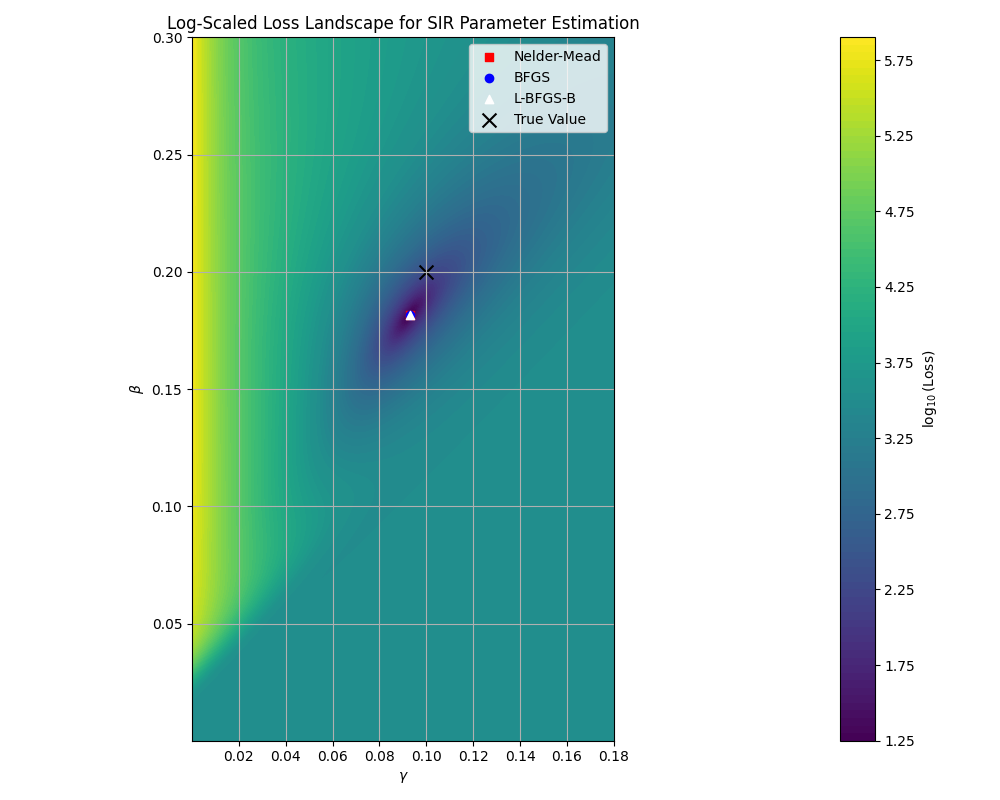
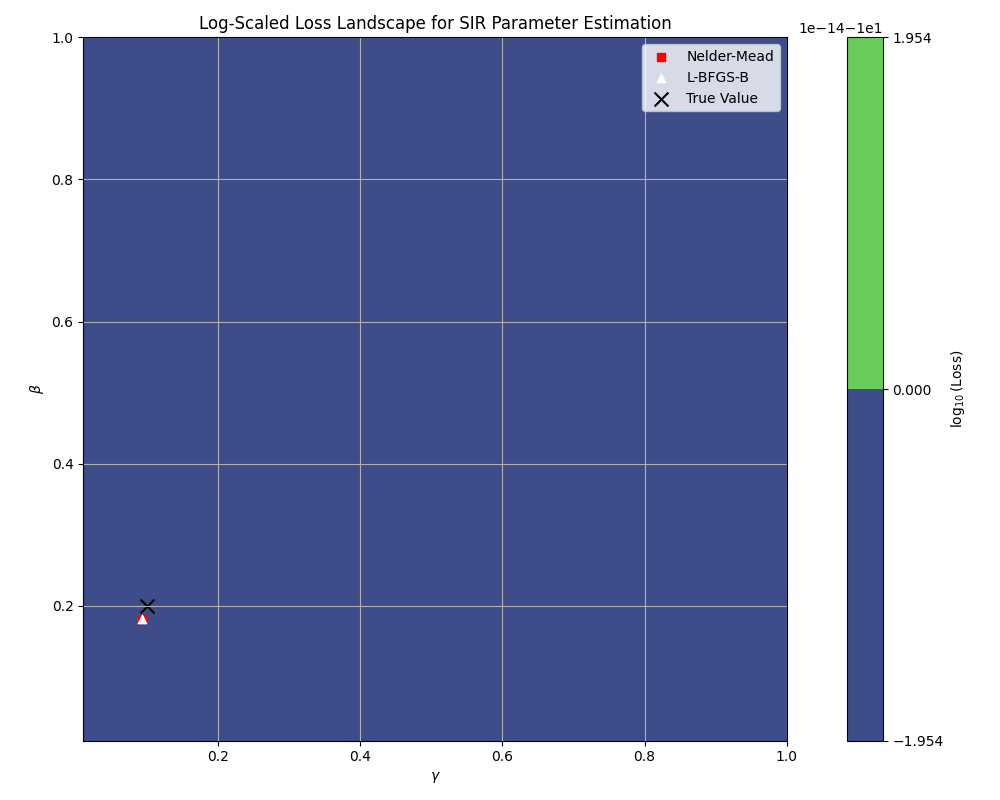
Updated general_model.py

diff --git a/general_model.py b/general_model.py
@@ -217,15 +217,35 @@ class EpidemicModel:
         for i, beta in enumerate(beta_vals):
             for j, gamma in enumerate(gamma_vals):
                 loss_vals[i, j] = self.loss([beta, gamma])
+        G, B = np.meshgrid(gamma_vals, beta_vals)  # Note: reversed order to match axes
+        initial_guess_nm = np.random.uniform(0, 1, size=2)
+        initial_guess_bfgs = np.random.uniform(0, 1, size=2)
+        initial_guess_lbfgs = np.random.uniform(0, 1, size=2)
+        bounds = [(0, 1), (0, 1)]
+        result_nm = minimize(lambda x: self.loss(x), initial_guess_nm, bounds=bounds)
+        beta_nm, gamma_nm = result_nm.x
+        result_bfgs = minimize(lambda x: self.loss(x), initial_guess_bfgs, method='BFGS')
+        beta_bfgs, gamma_bfgs = result_bfgs.x
+        result_lbfgs = minimize(lambda x: self.loss(x), initial_guess_lbfgs, method='L-BFGS-B', bounds=bounds)
+        beta_lbfgs, gamma_lbfgs = result_lbfgs.x
+        plt.figure(figsize=(10, 8))
+        cp = plt.contourf(G, B, log_loss_grid, levels=100, cmap='viridis')
+        cbar = plt.colorbar(cp)
+        cbar.set_label(r'$\log_{10}$(Loss)')
+        plt.xlabel(r'$\gamma$')
+        plt.ylabel(r'$\beta$')
+        plt.title('Log-Scaled Loss Landscape for SIR Parameter Estimation')
+        plt.scatter([gamma_nm], [beta_nm], color='red', marker='s', label='Nelder-Mead')
+        plt.scatter([gamma_bfgs], [beta_bfgs], color='blue', marker='o', label='BFGS')
+        plt.scatter([gamma_lbfgs], [beta_lbfgs], color='white', marker='^', label='L-BFGS-B')
+        true_beta, true_gamma = self.params
+        plt.scatter([true_gamma], [true_beta], color='black', marker='x', s=100, label='True Value')
 
-        B, G = np.meshgrid(gamma_vals, beta_vals)  # Note: reversed order to match axes
-        plt.figure()
-        cp = plt.contourf(G, B, loss_vals, 50, cmap='viridis')
-        plt.colorbar(cp)
-        plt.xlabel('Gamma')
-        plt.ylabel('Beta')
-        plt.title('Loss Landscape')
+        plt.legend()
+        plt.grid(True)
+        plt.axis('scaled')
         plt.tight_layout()
+        plt.savefig("plots/loss_landscape.png")
         plt.show()
 
     def plot_fitted_vs_noisy(self):
